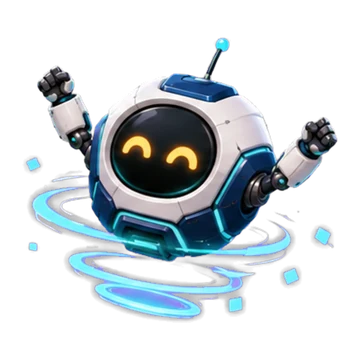
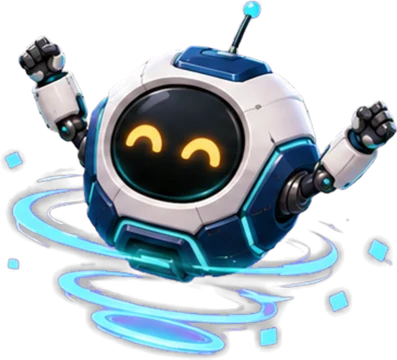
Professor Nulls Gefolge uebernommen, Kapitel 2 dazu, Spott eskaliert
Das offizielle Gefolge aus dem Intro-Repo (assets/generated/characters/
null-crew) loest meine beiden Eigenentwuerfe ab: Ciphera, Glitch, Loop,
Byte und Nullbit, je in Ruhe- und Aktionspose, dazu NULL-CREW.md mit
Rollen und Kapitelzuordnung. Syntaxa und Kontrollor bleiben als Reserve
in der Grafik-Bibliothek, kommen aber nicht mehr vor.

Kapitelzuordnung laut NULL-CREW.md (Kapitel 1-4: Byte und Nullbit):

- Kapitel 1 (Neustart): Nullbit und Byte gegen Py, Nia, Ada
- Kapitel 2 (Speicherstadt): Byte und Nullbit gegen Memo, Py, Nia.
  Byte stiehlt Datenwerte - das passt genau auf das Thema Variablen.
  Archivarin Memo ist laut Story die Wissenshueterin der Speicherstadt
  und uebernimmt hier Lob und Abschluss.

Spott eskaliert jetzt innerhalb einer Aufgabe: Bei mehreren Fehlern
bleibt DIESELBE Figur und wird von Spruch zu Spruch strenger - und gibt
dabei immer deutlichere Hinweise, bis hin zu "Nimm den Tipp". Der letzte
Spruch bleibt danach stehen. Bei der naechsten Aufgabe faengt es von
vorne an, ggf. mit einer anderen Figur. Dafuer merkt sich die Regie den
Handlanger pro Schritt (neuerSchritt() setzt zurueck) und die spott-Liste
ist eine Reihenfolge nach Strenge statt einer Zufallsauswahl.

Ausserdem duerfen die Figuren jetzt auch witzig sein - Py haengt sich vor
Freude in einen Knoten, Memo sucht ihr Regal, Byte findet den Wert zu
schwer fuer seine Tasche.

Zwei weitere Anpassungen:
- Zahlwoerter aus den Spott-Texten entfernt ("Zweiter Fehler"): Die
[…]

diff --git a/src/figuren.js b/src/figuren.js
@@ -83,7 +83,7 @@ function stelltSichVor(figuren, id) {
 
 // Baut den Auftritt einer Figur: beim ersten Mal ggf. die Vorstellung,
 // sonst einen zufaelligen Spruch aus der passenden Liste.
-function auftritt(figuren, id, feld) {
+function auftritt(figuren, id, feld, index = null) {
   const figur = figuren?.[id];
   if (!figur) return null;
 
@@ -100,8 +100,12 @@ function auftritt(figuren, id, feld) {
     };
   }
 
-  const spruch = zufall(figur[feld] ?? []);
-  if (!spruch) return null;
+  const liste = figur[feld] ?? [];
+  if (!liste.length) return null;
+  // Ohne Index (Lob, Rueckzug) einfach abwechseln. MIT Index (Spott) wird
+  // die Liste der Reihe nach abgearbeitet - sie ist nach Strenge sortiert.
+  // Der letzte Eintrag bleibt danach stehen.
+  const spruch = index === null ? zufall(liste) : liste[Math.min(index, liste.length - 1)];
   return {
     id,
     name: figur.name,
@@ -121,26 +125,42 @@ export function createRegie(figurenDaten, chapterId) {
   const figuren = figurenDaten.figuren ?? {};
   const verbuendete = kapitel.verbuendete ?? [];
   const handlanger = kapitel.handlanger ?? [];
-  let letzterHandlanger = null;
+  // Innerhalb EINER Aufgabe bleibt derselbe Handlanger - es soll sich
+  // anfuehlen, als haette man es mit einem Gegenueber zu tun, das immer
+  // ungehaltener wird. Der Zaehler waehlt den naechsten, strengeren Spruch.
+  let handlangerImSchritt = null;
+  let spottIndex = 0;
 
   return {
+    // Neue Aufgabe: Der naechste Fehler darf wieder von vorne anfangen.
+    neuerSchritt() {
+      handlangerImSchritt = null;
+      spottIndex = 0;
+    },
+
     // Falsche Antwort: ein Handlanger von Professor Null taucht auf.
     fehler() {
       if (!handlanger.length) return null;
-      // Neue Handlanger zuerst - so lernt man sie nacheinander kennen,
-      // statt gleich alle auf einmal.
-      const neue = handlanger.filter((id) => stelltSichVor(figuren, id));
-      const id = neue.length ? neue[0] : zufall(handlanger);
-      letzterHandlanger = id;
-      return auftritt(figuren, id, "spott");
+      if (!handlangerImSchritt) {
+        // Neue Handlanger zuerst - so lernt man sie nacheinander kennen,
+        // statt gleich alle auf einmal.
+        const neue = handlanger.filter((id) => stelltSichVor(figuren, id));
+        handlangerImSchritt = neue.length ? neue[0] : zufall(handlanger);
+      }
+      const a = auftritt(figuren, handlangerImSchritt, "spott", spottIndex);
+      // Die Vorstellung verbraucht noch keinen Spott-Spruch - der erste
+      // richtige Spruch kommt beim naechsten Fehler.
+      if (a && !a.vorstellung) spottIndex++;
+      return a;
     },
 
     // Richtige Loesung. Kam vorher ein Fehler, zieht sich der Handlanger
     // zurueck, der gerade noch gestichelt hat - sonst lobt ein Verbuendeter.
     erfolg({ nachFehler = false } = {}) {
-      if (nachFehler && letzterHandlanger) {
-        const id = letzterHandlanger;
-        letzterHandlanger = null;
+      if (nachFehler && handlangerImSchritt) {
+        const id = handlangerImSchritt;
+        handlangerImSchritt = null;
+        spottIndex = 0;
         const rueckzug = auftritt(figuren, id, "rueckzug");
         if (rueckzug) return rueckzug;
       }

diff --git a/src/styles.css b/src/styles.css
@@ -372,8 +372,11 @@ a.welt:hover { transform: translateY(-3px); box-shadow: 0 6px 0 rgba(0,0,0,.06),
   display: flex; align-items: flex-end; gap: .7rem;
   margin-top: 1rem; animation: figur-auftritt .38s cubic-bezier(.22,1,.36,1);
 }
+/* Ueber die HOEHE skalieren, nicht ueber die Breite: Die Figuren sind
+   unterschiedlich breit (schmale Strategin, breiter Automat, kleine
+   Drohne) - gleiche Hoehe laesst sie nebeneinander stimmig wirken. */
 .figur__bild {
-  width: clamp(64px, 17vw, 96px); flex: none; display: block;
+  height: clamp(80px, 22vw, 118px); width: auto; flex: none; display: block;
   filter: drop-shadow(0 6px 12px rgba(15, 23, 42, .28));
 }
 /* Ab genug Platz tritt die Figur AUS der Karte heraus in den grauen Rand
@@ -382,7 +385,7 @@ a.welt:hover { transform: translateY(-3px); box-shadow: 0 6px 0 rgba(0,0,0,.06),
    innerhalb der Karte. */
 @media (min-width: 1000px) {
   .figur { margin-left: -108px; margin-bottom: -1.7rem; }
-  .figur__bild { width: 136px; position: relative; z-index: 1; }
+  .figur__bild { height: 190px; position: relative; z-index: 1; }
 }
 .figur__blase {
   position: relative; flex: 1; min-width: 0;
@@ -417,11 +420,11 @@ a.welt:hover { transform: translateY(-3px); box-shadow: 0 6px 0 rgba(0,0,0,.06),
 }
 /* Beim ersten Auftritt stellt sich die Figur vor - dieser Moment bekommt
    mehr Gewicht: groesseres Bild und ein leichtes Leuchten. */
-.figur--vorstellung .figur__bild { width: clamp(84px, 22vw, 124px); }
+.figur--vorstellung .figur__bild { height: clamp(104px, 28vw, 150px); }
 /* Der Vorstellungs-Auftritt darf groesser sein - dafuer braucht es aber
    auch mehr Rand, sonst schiebt die Figur die Seite seitlich auf. */
 @media (min-width: 1120px) {
-  .figur--vorstellung .figur__bild { width: 168px; }
+  .figur--vorstellung .figur__bild { height: 240px; }
   .figur--vorstellung { margin-left: -140px; }
 }
 .figur--vorstellung .figur__blase { box-shadow: 0 0 0 4px color-mix(in srgb, var(--figur-rand) 22%, transparent); }

diff --git a/src/views/lesson-view.js b/src/views/lesson-view.js
@@ -100,6 +100,7 @@ class LessonPlayer {
     this.footer.innerHTML = "";
     this.stage.scrollTop = 0;
     this.fehlerImSchritt = false;
+    this.regie?.neuerSchritt();
 
     switch (step.type) {
       case "explain": return this.renderExplain(step);

diff --git a/arbeitsblaetter/figuren_uebernehmen.py b/arbeitsblaetter/figuren_uebernehmen.py
@@ -32,8 +32,17 @@ BENOETIGT = {
     "byte": ["neutral", "victory", "surprised"],
     "glitch": ["funny", "worried", "neutral"],
     "ada": ["neutral", "victory", "thoughtful"],
-    "memo": ["neutral"],
+    "memo": ["neutral", "victory", "clever"],
     "professor-null": ["angry", "clever", "defeated"],
+    # Professor Nulls Gefolge (aus dem Intro-Repo, siehe NULL-CREW.md).
+    # Diese Figuren haben nur zwei Posen: ruhig und in Aktion.
+    "null-byte": ["neutral", "action"],
+    "null-nullbit": ["neutral", "action"],
+    "null-glitch": ["neutral", "action"],
+    "null-loop": ["neutral", "action"],
+    "null-ciphera": ["neutral", "action"],
+    # Eigenentwuerfe, aktuell nicht im Einsatz - das offizielle Gefolge
+    # aus dem Intro-Repo hat sie abgeloest. Bleiben als Reserve erzeugt.
     "syntaxa": ["neutral", "angry", "defeated"],
     "kontrollor": ["neutral", "angry", "defeated"],
 }
@@ -55,6 +64,11 @@ def main():
                 fehlend.append(f"{ordner}/{pose}")
                 continue
             im = Image.open(f).convert("RGBA")
+            # Leeren Rand abschneiden - sonst schwebt die Figur klein in der
+            # Mitte eines grossen, durchsichtigen Quadrats.
+            rand = im.getbbox()
+            if rand:
+                im = im.crop(rand)
             breite = round(im.width * HOEHE / im.height)
             im = im.resize((breite, HOEHE), Image.LANCZOS)
             im.save(ZIEL / ordner / f"{pose}.webp", quality=88, method=6)

diff --git a/grafik-bibliothek/figuren/NULL-CREW.md b/grafik-bibliothek/figuren/NULL-CREW.md
@@ -1,0 +1,30 @@
+# Professor Nulls Gefolge
+
+Die fünf Figuren erweitern Professor Null um wiederkehrende Gegenspieler für
+Zwischensequenzen und Lernmissionen. Konflikte werden über Programmieraufgaben,
+Debugging und Entscheidungen gelöst, nicht über Gewalt.
+
+## Figuren
+
+| Figur | Aufgabe in der Geschichte | Neutrale Pose | Aktionspose |
+|---|---|---|---|
+| Ciphera | taktische Stellvertreterin; verschlüsselt Hinweise | `ciphera-neutral.png` | `ciphera-action.png` |
+| Glitch | baut sichtbare Fehler in Programme ein | `glitch-neutral.png` | `glitch-action.png` |
+| Loop | setzt Systeme in Endlosschleifen fest | `loop-neutral.png` | `loop-action.png` |
+| Byte | vertauscht und stiehlt Datenwerte | `byte-neutral.png` | `byte-action.png` |
+| Nullbit | Scout- und Schwarmdrohne | `nullbit-neutral.png` | `nullbit-action.png` |
+
+`null-crew-lineup.png` und `null-crew-actions.png` zeigen alle Figuren gemeinsam
+für Größenvergleich, Auswahlbildschirm und Storyboard.
+
+## Technische Verwendung
+
+- Alle PNG-Dateien besitzen einen echten transparenten Alphakanal.
+- Die zehn Einzelposen liegen auf einer einheitlichen 900×900-Pixel-Fläche.
+- Die Figur sollte innerhalb einer Szene immer über dieselbe CSS-Box gesetzt
+  werden. Dadurch kann zwischen `neutral` und `action` überblendet werden.
+- Hologramme, Pixelpartikel und Scanlicht sind Teil der Rasterpose. Zusätzliche
+  Bewegungseffekte sollten als CSS-/SVG-Overlay ergänzt werden.
+- Bei `prefers-reduced-motion` bleiben die Posen statisch.
+
+Die Kapitelzuordnung und Figurenentwicklung stehen in `docs/NULL-CREW.md`.
